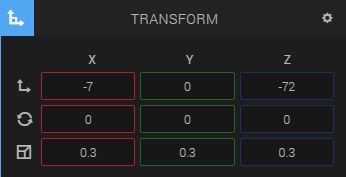
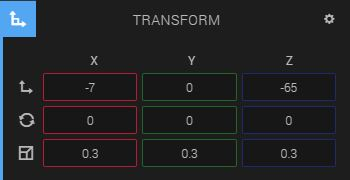
finished last part of beginner course

diff --git a/courses/beginner/7/index.md b/courses/beginner/7/index.md
@@ -3,12 +3,147 @@ layout: coursepart
 title: Ready for Takeoff
 part: 7
 thumbnail: /courses/beginner/7/thumbnail.jpg
-scene_partfinished: f15efa108fec429aabc56a8a7bbb9ff0.scene
-tags: timeline
-achievements: Timeline
-description: Our Moon Rocket is now ready for takeoff! We're going to make the animation of the Launching Moon Rocket with the Timeline component.
+scene_partfinished: fec0e9f826584d1ca7f0b304d042c6e2.scene
+tags: timeline, events, messages, animation, state machine, fixed camera
+achievements: Timeline, Events, State machine, Creating a fixed camera
+description: Our Moon Rocket is ready for takeoff! We're going to make the animation of the Launching Moon Rocket with the Timeline component. We're also going to create and animate the camera, so it moves with the Moon Rocket.
 ---
-Before
 
-# What is the
- 
+# Add a fixed camera
+
+Before animating the Moon rocket we're going to add a *Fixed camera*. Right now you can move the camera in the scene in playmode (when you've pressed the play button) by holding the left or right mouse button and dragging the mouse. With a fixed camera this is disabled, so it isn't possible for the user to move the camera position.
+
+1. Click the *Create entity* button at the top center of the canvas
+2. Click the *Fixed camera* in the *Create entity* window
+![](addfixedcamera.jpg)
+3. Add the following transform values to the Fixed Camera entity
+![](fixedcameratransformvalues.jpg)
+4. Unfold *Camera* below *Transform* in the *Inspector panel*
+5. Check *Main camera* to view the scene through this camera when in playmod
+7. Change the *FOV (field of view)* to '65'
+6. Change the clipping planes from '1000' to '1500', otherwise the Earth won't be visible
+![](fixedcameravalues.gif)
+
+# What is the Timeline component
+
+The Timeline Component enables you to animate properties of an entity over time, such as the scale, rotation and the translation properties.
+
+For instance, we want to launch the rocket. As you probably know by now, to move entities we use the translation property. When the initial *Y translation* is 0, and we set the *Y translation* to '100' at 5 seconds in the timeline, the rocket will move from 0 to 100 in 5 seconds.
+
+# Adding the timeline component
+
+1. Click the *Create entity* button at the top center of the canvas
+2. Click the *Timeline* in the *Create entity* window
+![](addtimeline.jpg)
+
+Now there should be a *Timeline entity* in your *Hierarchy panel*:
+![](timelineinhierarchy.jpg)
+
+# Launching the rocket with the timeline
+
+## Opening the timeline
+
+1. Make sure the *Timeline entity* is selected in the *Hierarchy panel*
+2. Click *Toggle timeline* in the *Inspector panel*
+![](toggletimelinebutton.jpg)
+
+The timeline should now be visible below the canvas
+
+## Enable to edit the Moon Lander with the timeline
+
+To animate the transform properties of an entity, we first have to drag and drop the entity you want to animate from the *Hierarchy panel* into the *Timeline*
+
+1. Drag and drop the *Moon lander* entity from the *Hierarchy panel* into the *Timeline*
+![](dragmoonlander.gif)
+![](dropmoonlander.gif)
+
+Your timeline should now look like this:
+![](timeline.jpg)
+
+## Creating the Moon lander animation
+
+To make the Moon lander go up, we have to edit the *Y translation* in the timeline
+
+1. To enable the *Y translation* to be edited, press the little clock in front of the *Y* under *Translation*
+![](enabletimelineproperty.gif)
+2. Drag the *playhead* to 5 seconds by dragging and dropping the little circle
+![](playhead5sec.gif)
+3. Change the *Translate Y* value from '0' to '220'
+![](keyframe220y.gif)
+There should appear a keyframe for the *Y translation* at 5 seconds
+![](keyframe5sec.jpg)
+
+Press the *Play button* to check out what happens!
+
+As you can see, the animation isn't very realistic because a real rocket moves really slow at first and then gradually goes faster. To create this, we have to add an *easing* to the animation.
+
+1. Right-click the first *Y translation* key frame, so the one at 0 seconds
+2. Change the *Easing function* from 'Linear' to 'Cubic'
+![](changeeasingtype.gif)
+
+Looks much better now, don't you think?
+
+# Creating the Camera animation
+
+When the rocket launches we want the camera to move up as well.
+
+1. Drag the *Fixed camera* entity into the *Timeline*, as you did with the Moon Lander entity
+2. Scroll down in the timeline untill you see the Transform options for the *Fixed cam* entity
+![](timelinescroll.gif)
+3. Enable the *Y translation* in the *Timeline*
+![](enableytranslationcam.gif)
+4. Drag the playhead to **6** seconds
+5. Change the *Y translation* value from '14' to '166'
+![](camytranslation.gif)
+6. Right-click the first keyframe, so the one at 0 seconds, and set the *Easing function* to 'Cubic' and the *Easing type* to 'In - Out'
+![](easesettingscam.gif)
+
+# Start animation when Moon Rocket is clicked
+
+Because we don't want the animation to start right after the scene is loaded, we're going to add a *state machine* to the Moon Rocket and to the timeline that starts the timeline when the Moon Rocket is clicked.
+
+There is a *Start Timeline* action, but to use it your *timeline* has to be in the same entity as the *state machine* itself. So, we have to add a state machine to the *Timeline entity* as well, and send a message from the *Moon Lander* state machine to the *Timeline* state machine to use the *Start timeline* action.
+
+For sending messages you can use the *Emit message* action, and for receiving the *Listen* action.
+
+## Send message to timeline entity
+
+1. Make sure the *Timeline* entity is selected and uncheck *Auto start* in the *Inspector panel*
+![](uncheckautostart.jpg)
+2. Select the *Moon lander* entity in the *Hierarchy panel*
+3. Add a *State machine component* in the *Inspector panel*
+4. Create and edit a new behavior by pressing the *+*
+![](createstatemachinebehavior.gif)
+5. Rename the behavior to 'Moon rocket behavior'
+5. Rename the current state to 'Waiting for click'
+6. Add a *Pick action* by clicking the *Add action* button, search for 'pick' and then double-clicking the *Pick* action
+7. Add a new state
+![](addstate.jpg)
+8. Rename the new state to 'clicked'
+9. Add an *Emit Message action* by clicking the *Add action* button, searching for 'emit' and then double-clicking the *Emit Message* action
+10. Set the message to 'clicked' in the *Emit Message Channel*
+![](emitmessage.gif)
+11. Connect the two states
+![](connectstates.gif)
+
+## Receive message from Moon Lander
+
+1. Select the *Timeline entity* in the *Hierarchy panel*
+2. Add a *State machine component* in the *Inspector panel*
+3. Create and edit a new behavior by pressing the *+*
+![](createstatemachinebehavior.gif)
+5. Rename the behavior to 'Timeline behavior'
+6. Rename the current state to 'Waiting for click'
+7. Add a *Listen action* by clicking the *Add action* button, search for 'listen' and then double-clicking the *Listen* action
+8. Set the *message channel* to 'clicked' in the *Listen Message Channel* box
+![](listenmessage.gif)
+9. Add a new state
+![](addstate.jpg)
+10. Rename the new state to 'clicked'
+11. Add the *Start timeline* action by clicking the *Add action* button, searching for 'start' and then double-clicking *Start timeline*
+12. Connect the states
+![](connectstates2.gif)
+
+Press the *Play button* and see what happens when you click the Moon Rocket!
+
+Now you're ready for the final part in which you're going to add the rocket flames.
